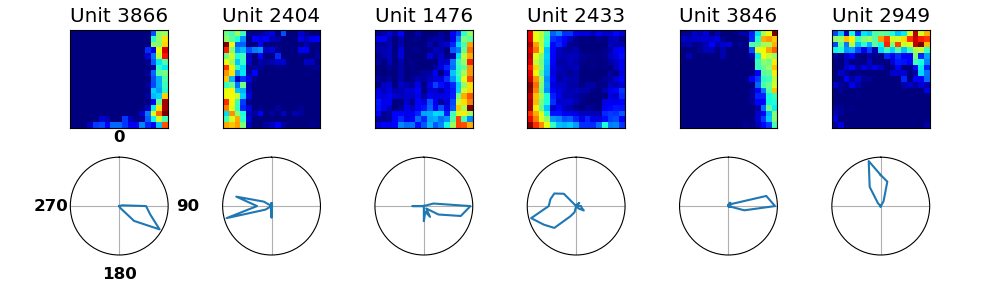
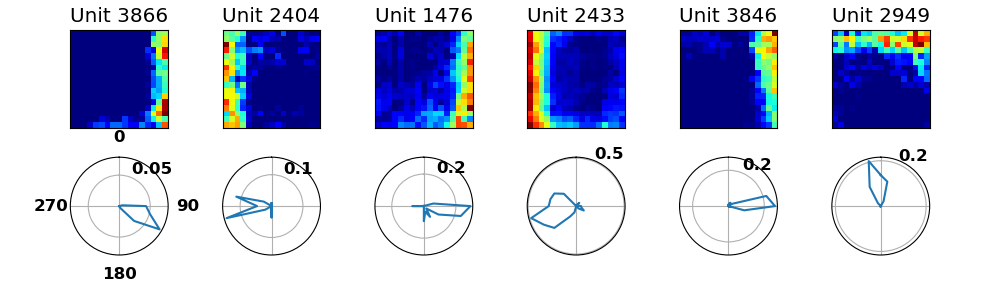
update figs: add one more row; recover rticks for scale

diff --git a/figures_paper.py b/figures_paper.py
@@ -1496,7 +1496,12 @@ def unit_visualization_by_type():
     multiplier=config['multiplier']
 
     # plottings
-    for unit_type in ['place_cell_1_field', 'place_cell_n_fields', 'border_cell']:
+    for unit_type in [
+        'place_cell_1_field', 
+        'place_cell_n_fields', 
+        'border_cell',
+        'less_directional_place_cell'
+    ]:
         if unit_type == 'place_cell_1_field':
             # single field place cell
             selected_n_indices = [2631, 8, 2803, 1654, 475, 4055]
@@ -1506,6 +1511,9 @@ def unit_visualization_by_type():
         if unit_type == 'border_cell':
             # border cells
             selected_n_indices = [3866, 2404, 1476, 2433, 3846, 2949]
+        if unit_type == 'less_directional_place_cell':
+            # Less directional place fields
+            selected_n_indices = [1280, 2672, 315, 758, 3429, 3530]
 
         fig = plt.figure(figsize=(10, 3))
         # ref - https://stackoverflow.com/questions/41071947/how-to-remove-the-space-between-subplots-in-matplotlib-pyplot
@@ -1550,7 +1558,7 @@ def unit_visualization_by_type():
                     ax.plot(x, y)
                     ax.set_theta_zero_location("N")
                     ax.set_theta_direction(-1)
-                    ax.set_rticks([])
+                    # ax.set_rticks([])
                     if col_index == 0:
                         ax.set_thetagrids([0, 90, 180, 270], labels=['0', '90', '180', '270'])
                     else:
@@ -1760,10 +1768,10 @@ def unit_chart_visualization_piechart():
 
 if __name__ == '__main__':
     TF_NUM_INTRAOP_THREADS = 10
-    decoding_each_model_across_layers_and_sr()
+    # decoding_each_model_across_layers_and_sr()
     # decoding_all_models_one_layer_one_sr()
     # lesion_by_coef_each_model_across_layers_and_lr()
     # lesion_by_unit_chart_each_model_across_layers_and_lr()
     # unit_chart_type_against_coef_each_model_across_layers()
-    # unit_visualization_by_type()
+    unit_visualization_by_type()
     # unit_chart_visualization_piechart()
